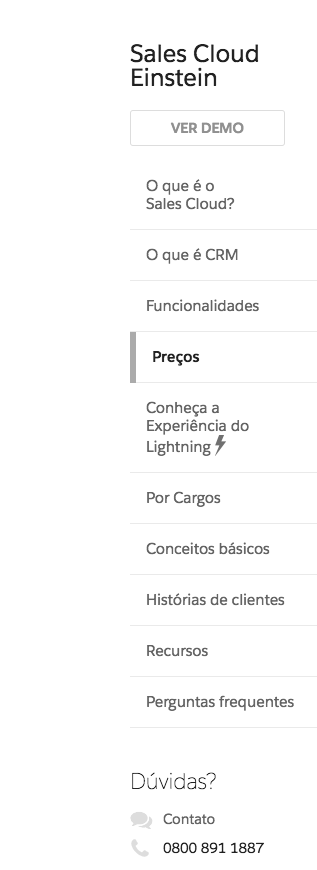
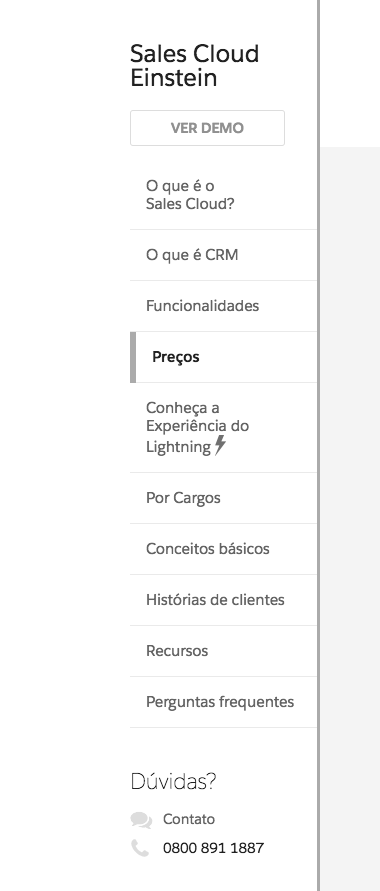
adjust sections

diff --git a/css/style.css b/css/style.css
@@ -17,7 +17,7 @@ a{
 
 /* LAYOUT STUFF */
 .wrapper{
-  width:1455px;
+  width:1440px;
   margin: 0 auto;
   background:#f4f4f4;
   background-image: url('https://s3-us-west-2.amazonaws.com/s.cdpn.io/27132/bg-repeat.png');
@@ -34,7 +34,7 @@ float:left;
 
 .left{
   /*background:green;*/
-  width:317px;
+  width:380px;
 }
 
 .right{
